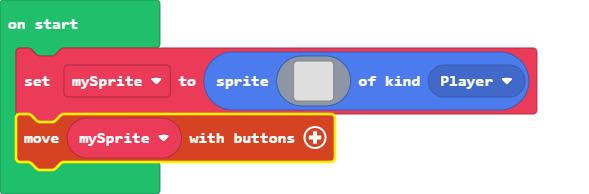
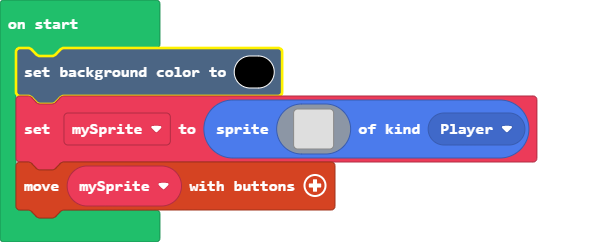
Update main.blocks, main.ts

diff --git a/main.ts b/main.ts
@@ -1,3 +1,4 @@
+scene.setBackgroundColor(15)
 let mySprite = sprites.create(img`
     . . . . . . . . . . . . . . . . 
     . . . . . . . . . . . . . . . . 
